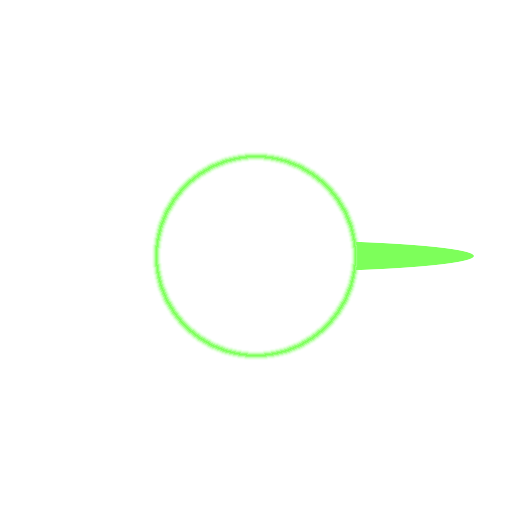
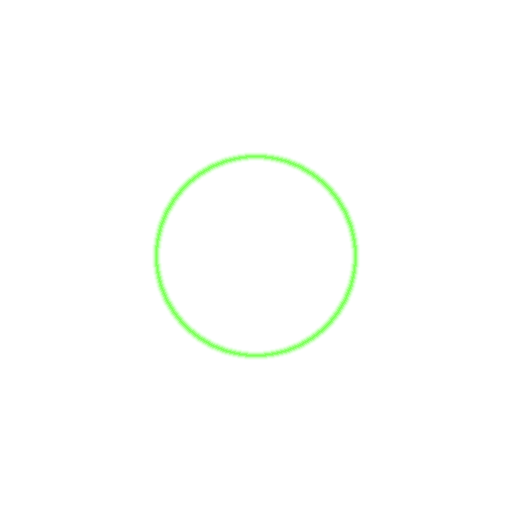
Mechanics changes, as requested by Dan

Changed region(s): [[0.6875, 0.4688, 0.9375, 0.5312]]

diff --git a/avatar.py b/avatar.py
@@ -2,7 +2,7 @@ from __future__ import division
 import sys,math
 from pygame.locals import *
 
-import app, colors, drive, sprite, image
+import app, colors, drive, sprite, image, util
 from geometry import *
 
 class DAvatar(drive.Drive):
@@ -20,17 +20,20 @@ class DAvatar(drive.Drive):
 	lantern -- Sprite used for lantern drawn behind Satyrn. Its offset
 		is from the center of the Satyrn sprite/object.
 	lantern_rot_speed -- How fast (in revolutions per second) the lantern
-		can move around Satyrn to the player-desired position. Purely
-		visual; lantern's actual position changes instantaneously.
+		can move around Satyrn to the player-desired position.
 	lantern_rad -- Radius of the circle that lantern moves around.
 	lantern_ang -- Current angle of the lantern from Satyrn, controlled by player.
-	boost_push -- How hard to push when just boosting.
-	boost_attack_1_push -- How hard to push when boosting during the early
-		stronger part of an attack.
-	boost_attack_2_push -- How hard to push when boosting during the latter
-		weaker part of an attack.
+	attack_rot_speed -- How fast (in revs per second) the attack angle changes
+		when the player pushes a direction during an attack. This is also the
+		speed at which Satyrn's orientation can be manually changed while the
+		attack field is turned on.
+	cruise_push -- How hard to push when cruising.
+	boost_push_1 -- How hard to push during the initial pulse of a boost.
+	boost_push_2 -- How hard to push during when player continues holding down the boost button.
 	boost_max_speed -- The maximum linear speed (in terms of body.getLinearVel) that
 		Satyrn can reach while boosting.
+	stall_speed_diff -- The maximum amount of linear speed that Satyrn can lose per
+		second while stalling.
 	"""
 	
 	def __init__(self):
@@ -42,6 +45,7 @@ class DAvatar(drive.Drive):
 				"crouch":image.DImage("satyrn/crouch.png", Size(1.0, 1.0)),
 				"crouch-to-stand":image.DImage("satyrn/crouch-to-stand.png", Size(1.0, 1.0)),
 				"float-boost":image.DImage("satyrn/float-boost.png", Size(1.0, 1.0)),
+				"float-cruise":image.DImage("satyrn/float-cruise.png", Size(1.0, 1.0)),
 				"float-daze":image.DImage("satyrn/float-daze.png", Size(1.0, 1.0)),
 				"float-flip":image.DImage("satyrn/float-flip.png", Size(1.0, 1.0)),
 				"float-ow":image.DImage("satyrn/float-ow.png", Size(1.0, 1.0)),
@@ -59,6 +63,7 @@ class DAvatar(drive.Drive):
 				"crouch":sprite.DSprite.Anim([("crouch", 100)], "REPEAT"),
 				"crouch-to-stand":sprite.DSprite.Anim([("crouch-to-stand", 100)], "REPEAT"),
 				"float-boost":sprite.DSprite.Anim([("float-boost", 350)], "REPEAT"),
+				"float-cruise":sprite.DSprite.Anim([("float-cruise", 350)], "REPEAT"),
 				"float-daze":sprite.DSprite.Anim([("float-daze", 100)], "REPEAT"),
 				"float-flip":sprite.DSprite.Anim([("float-flip", 100)], "REPEAT"),
 				"float-ow":sprite.DSprite.Anim([("float-ow", 100)], "REPEAT"),
@@ -79,17 +84,19 @@ class DAvatar(drive.Drive):
 				"field-attack-2":image.DImage("satyrn/field-attack-2.png", Size(2.0, 2.0)),
 			}, {
 				"null":sprite.DSprite.Anim([("null", 100)], "REPEAT"),
-				"field-attack-1":sprite.DSprite.Anim([("field-attack-1", 200)], "field-attack-2"),
+				"field-attack-1":sprite.DSprite.Anim([("field-attack-1", 300)], "field-attack-2"),
 				"field-attack-2":sprite.DSprite.Anim([("field-attack-2", 100)], "REPEAT"),
 			}
 		)
 		self.field_boost = sprite.DSprite("null",
 			{
 				"null":drive.Drive(),
-				"field-boost":image.DImage("satyrn/field-boost.png", Size(1.0, 1.0)),
+				"field-boost-1":image.DImage("satyrn/field-boost-1.png", Size(1.0, 1.0)),
+				"field-boost-2":image.DImage("satyrn/field-boost-2.png", Size(1.0, 1.0)),
 			}, {
 				"null":sprite.DSprite.Anim([("null", 100)], "REPEAT"),
-				"field-boost":sprite.DSprite.Anim([("field-boost", 100)], "REPEAT"),
+				"field-boost-1":sprite.DSprite.Anim([("field-boost-1", 200)], "field-boost-2"),
+				"field-boost-2":sprite.DSprite.Anim([("field-boost-2", 100)], "REPEAT"),
 			}
 		)
 		self.lantern = sprite.DSprite("lantern",
@@ -102,10 +109,12 @@ class DAvatar(drive.Drive):
 		self.lantern_rot_speed = 3
 		self.lantern_rad = 0.3
 		self.lantern_ang = 0.5
-		self.boost_push = 0.5
-		self.boost_attack_1_push = 2.5
-		self.boost_attack_2_push = 1.5
+		self.attack_rot_speed = 3
+		self.cruise_push = 0.5
+		self.boost_push_1 = 1.5
+		self.boost_push_2 = 0.7
 		self.boost_max_speed = 5
+		self.stall_speed_diff = 5
 	
 	def _draw(self, obj):
 		self.lantern.offset = Point(self.lantern_rad, 0).rot(Point(0,0), self.lantern_ang-obj.ang)
@@ -113,7 +122,6 @@ class DAvatar(drive.Drive):
 		self.sprite.draw(obj)
 		self.field_boost.rot_offset = self.lantern_ang-obj.ang
 		self.field_boost.draw(obj)
-		self.field_attack.rot_offset = self.lantern_ang-obj.ang
 		self.field_attack.draw(obj)
 	
 	def _step(self, obj):
@@ -139,64 +147,53 @@ class DAvatar(drive.Drive):
 		elif self.field_attack.cur_anim == "field-attack-2":
 			self.field_attack.cur_anim = "null"
 
-		# Figure out how hard a boost would push us this step, based on state of the attack field
-		bpush = self.boost_push
-		if self.field_attack.cur_anim == "field-attack-1":
-			bpush = self.boost_attack_1_push
-		elif self.field_attack.cur_anim == "field-attack-2":
-			bpush = self.boost_attack_2_push
+		# Turn on the boost animation if they're holding down the boost key
+		if app.keys[K_b]:
+			if self.field_boost.cur_anim == "null":
+				self.field_boost.cur_anim = "field-boost-1"
+		elif self.field_boost.cur_anim == "field-boost-2":
+			self.field_boost.cur_anim = "null"
+		
+		if self.field_boost.cur_anim != "null":
+			self.sprite.cur_anim = "float-boost"
+		
+		# Figure out how hard we would move this step, based on what stage of boosting the player is in
+		bpush = self.cruise_push
+		if self.field_boost.cur_anim == "field-boost-1":
+			bpush = self.boost_push_1
+		elif self.field_boost.cur_anim == "field-boost-2":
+			bpush = self.boost_push_2
 		
 		# This will be the angle that the lantern moves towards, relative to Satyrn
 		# By default, until the player hits a button, the lantern just wants to be where it is
-		des_angle = self.lantern_ang
+		des_lantern_ang = self.lantern_ang
 		
-		cur_vel = Point(obj.body.getLinearVel()[0], obj.body.getLinearVel()[1])
-		cur_speed = Point(0,0).dist_to(cur_vel)
+		# Rotate the lantern around towards the opposite side of where the player is pressing
+		# That's because, conceptually, the player should think of the lantern as pushing Satyrn
 		if push_vec[0] != 0 or push_vec[1] != 0:
-			# Rotate the lantern around towards the opposite side of where the player is pressing
-			# That's because, conceptually, the player should think of the lantern as pushing Satyrn
-			des_angle = Point(0,0).ang_to(-push_vec)
-			if app.keys[K_b]:
-				self.sprite.cur_anim = "float-boost"
-				self.field_boost.cur_anim = "field-boost"
-				obj.body.addForce(Point(bpush,0).rot(Point(0,0), self.lantern_ang+0.5).fake_3d_tuple())
+			des_lantern_ang = Point(0,0).ang_to(-push_vec)
+		
+		if self.field_attack.cur_anim != "null":	
+			# When an attack field is up, orient Satyrn (and also, the sword) to face away from the lantern
+			obj.ang += util.cap_ang_diff(util.min_ang_diff(obj.ang, des_lantern_ang + 0.5), self.attack_rot_speed/app.maxfps)
+			
+			# Holding down the attack field means killing rotation and slowing/killing linear velocity
+			obj.body.setAngularVel((0,0,0))
+			vel_diff = -obj.vel
+			if Point(0,0).dist_to(obj.vel) > self.stall_speed_diff/app.maxfps:
+				obj.vel = obj.vel - Point(self.stall_speed_diff/app.maxfps,0).rot(Point(0,0), Point(0,0).ang_to(obj.vel))
 			else:
-				self.sprite.cur_anim = "float"
-				self.field_boost.cur_anim = "null"
-		elif (app.keys[K_b] or app.keys[K_v]) and cur_speed > 0.0001:
-			# If boosting/attacking, but not holding a direction, point the lantern in the direction Satyrn is heading
-			des_angle = Point(0,0).ang_to(cur_vel)
-			# Only start stalling if lantern is actually facing in the right direction
-			if app.keys[K_b] and abs(des_angle%1-self.lantern_ang%1) < 0.001:
-				# If this step of stalling would cause Satyrn to reverse direction, just cheat and set velocity to 0
-				self.sprite.cur_anim = "float-boost"
-				self.field_boost.cur_anim = "field-boost"
-				if Point(0,0).dist_to(cur_vel) > bpush/(obj.body.getMass().mass*app.maxfps):
-					obj.body.addForce(Point(bpush,0).rot(Point(0,0), self.lantern_ang+0.5).fake_3d_tuple())
-				else:
-					obj.body.setLinearVel((0,0,0))
-			else:
-				self.sprite.cur_anim = "float"
-				self.field_boost.cur_anim = "null"
-		else:
+				obj.vel = Point(0,0)
+		
+		# If player is not attacking, but is pushing the boost button and/or holding a direction, move Satyrn
+		# Either way, set his animation to be appropriate to his movement/non-movement
+		if self.field_attack.cur_anim == "null" and (push_vec[0] != 0 or push_vec[1] != 0 or self.field_boost.cur_anim != "null"):
+			if self.field_boost.cur_anim == "null":
+				self.sprite.cur_anim = "float-cruise"
+			
+			obj.body.addForce(Point(bpush,0).rot(Point(0,0), des_lantern_ang+0.5).fake_3d_tuple())
+		elif self.field_boost.cur_anim == "null":
 			self.sprite.cur_anim = "float"
-			self.field_boost.cur_anim = "null"
 		
 		# Move the lantern towards the pressed direction
-		dist = (des_angle - self.lantern_ang) % 1
-		if 1-dist < dist:
-			dist = -(1-dist)
-		if abs(dist) > self.lantern_rot_speed/app.maxfps:
-			dir = 1
-			if dist < 0:
-				dir = -1
-			dist = dir * self.lantern_rot_speed/app.maxfps
-		self.lantern_ang += dist
-		
-		# Figure out if the player just released the boost key
-		#boost_released = False
-		#for event in app.events:
-		#	if event.type == KEYUP and event.key == K_b:
-		#		# If the charge key was just released, then do a boost
-		#		boost_released = True
-		#		break
+		self.lantern_ang += util.cap_ang_diff(util.min_ang_diff(self.lantern_ang, des_lantern_ang), self.lantern_rot_speed/app.maxfps)

diff --git a/gameobj.py b/gameobj.py
@@ -13,6 +13,7 @@ class GameObj(object):
 	
 	Data attributes:
 	pos -- 2-tuple of the absolute location of the center of the object, in meters.
+	vel -- The linear velocity of the object.
 	ang -- The angle of the object, in clockwise revolutions.
 		Set these instead of calling methods on body or geom: ODE
 		will automatically be updated when these are set, and
@@ -58,7 +59,7 @@ class GameObj(object):
 		if drives == None: self.drives = util.TrackerList()
 		elif isinstance(drives, util.TrackerList): self.drives = drives
 		else: self.drives = util.TrackerList(drives)
-	
+
 	def __str__(self):
 		return " GO: (%7.3f, %7.3f) %s [%s]" % (
 			self.pos.x,
@@ -111,6 +112,16 @@ class GameObj(object):
 		if self._body != None: self._set_ode_pos(self._body)
 		elif self._geom != None: self._set_ode_pos(self._geom)
 	
+	def _get_vel(self):
+		if self._body != None:
+			return Point(*self.body.getLinearVel()[0:2])
+		else:
+			return Point(0,0)
+
+	def _set_vel(self, vel):
+		if self._body != None:
+			self.body.setLinearVel(vel.fake_3d_tuple())
+	
 	def _get_ang(self): return self._ang
 	
 	def _set_ang(self, ang):
@@ -120,6 +131,7 @@ class GameObj(object):
 		#If body and geom are connected, setting pos or ang in one sets it in both
 		if self._body != None: self._set_ode_ang(self._body)
 		elif self._geom != None: self._set_ode_ang(self._geom)
+	
 	
 	def _fetch_ode_from(self, odething):
 		"""Sets position and rotation from the given ODE object (either a body or a geom)."""
@@ -217,6 +229,7 @@ class GameObj(object):
 		return "(%2.3f, %2.3f) %2.3f" % (self.pos[0], self.pos[1], self.ang)
 	
 	pos = property(_get_pos, _set_pos)
+	vel = property(_get_vel, _set_vel)
 	ang = property(_get_ang, _set_ang)
 	body = property(_get_body, _set_body)
 	geom = property(_get_geom, _set_geom)

diff --git a/util.py b/util.py
@@ -19,6 +19,26 @@ def rev2deg(ang):
 	"""
 	return 360 * ang
 
+def min_ang_diff(src, dest):
+	"""Returns the shortest angular distance between two angles (in revolutions).
+
+	By "shortest", I mean that this will return whichever is lesser out of
+	clockwise or counter-clockwise."""
+	dist = (dest - src) % 1
+	if 1-dist < dist:
+		dist = -(1-dist)
+	return dist
+
+def cap_ang_diff(ang, max):
+	"""Reduces an angle offset to be less than a maximum, maintaining sign."""
+	if abs(ang) > max:
+		if ang > 0:
+			return max
+		else:
+			return -max
+	else:
+		return ang
+
 def anchored_joint(joint_type, obj1, anchor = None, obj2 = None):
 	"""Creates a new joint of the given type between two GameObjs, calls setAnchor on it.
 
